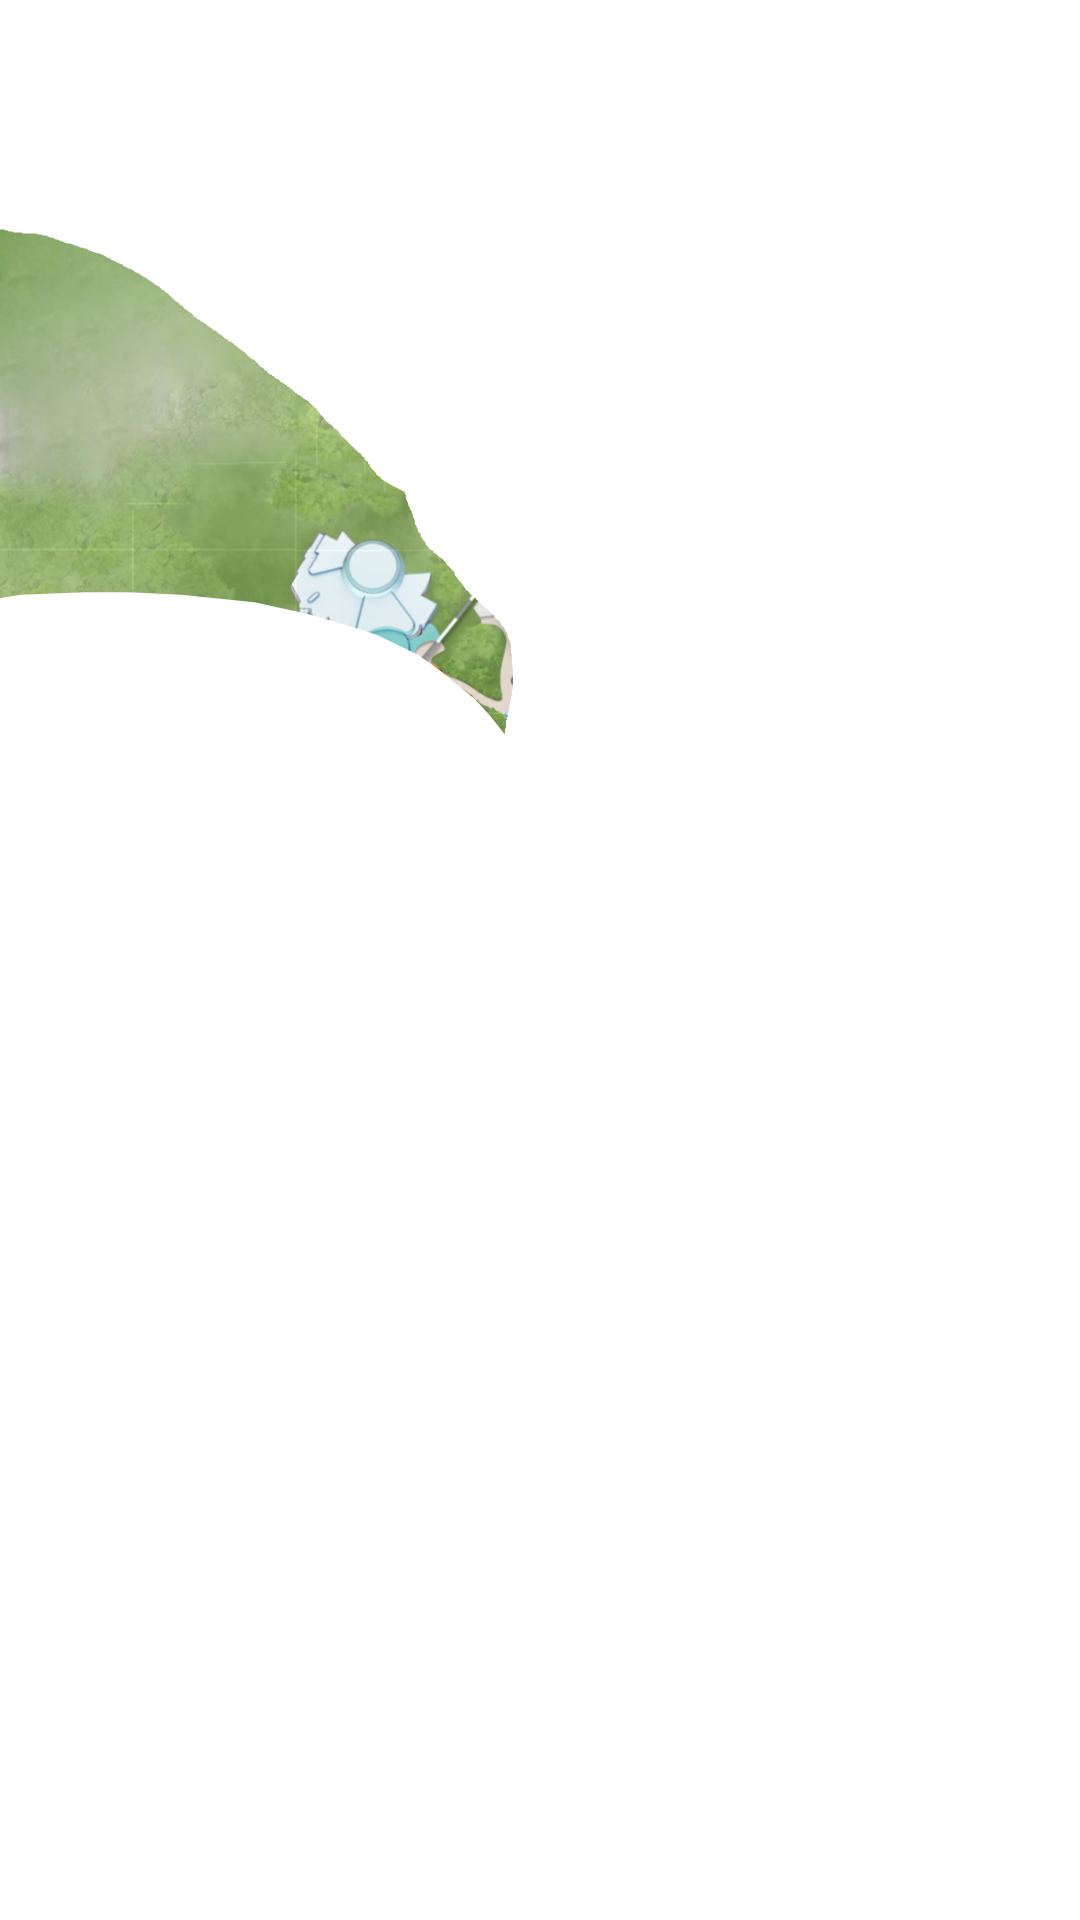
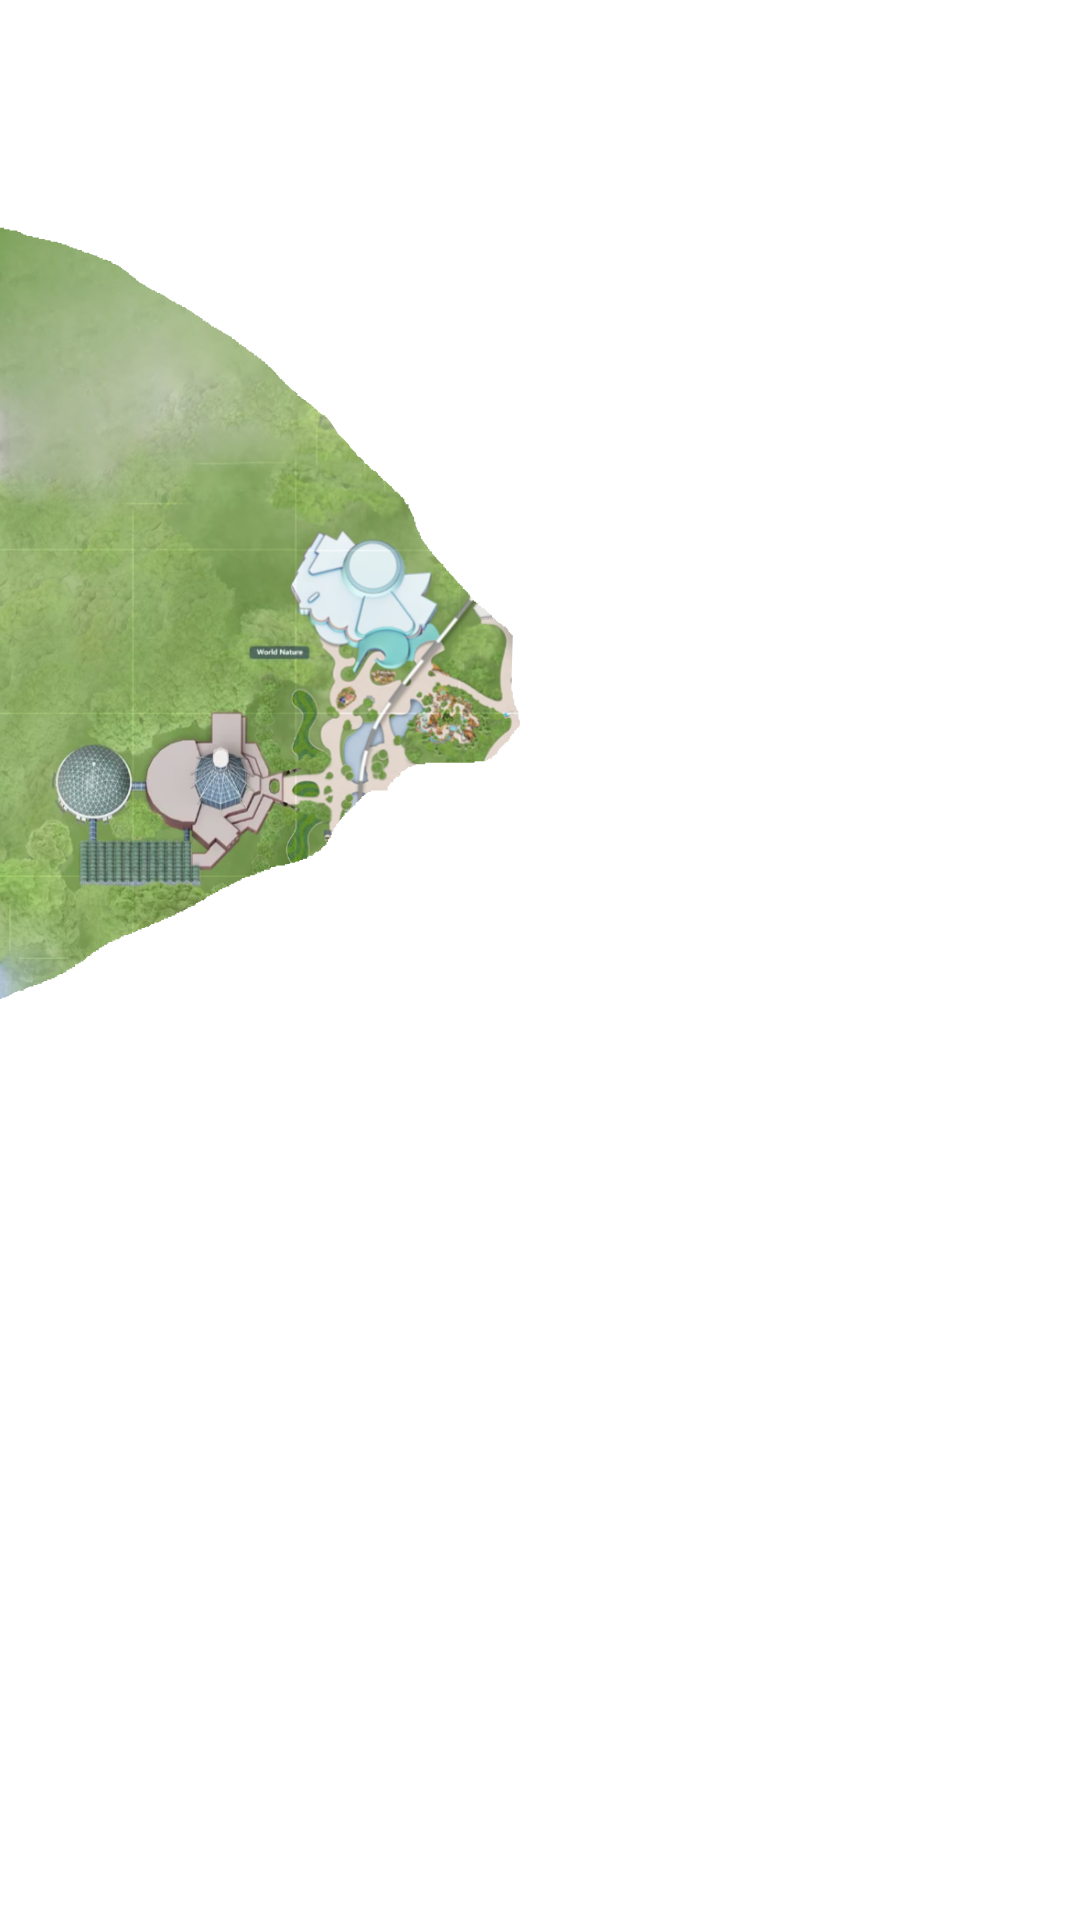
missing maps and name updates

Changed region(s): [[0.0, 0.2812, 0.4889, 0.5312], [0.1222, 0.125, 0.1528, 0.1562]]

diff --git a/mapp/src/images/Images.jsx b/mapp/src/images/Images.jsx
@@ -42,12 +42,12 @@ const IMAGES = {
   animalKingdomLines: new URL("./maps/animalKingdom/ak-lines.png", import.meta.url).href,
   africa: new URL("./maps/animalKingdom/africa.png", import.meta.url).href,
   asia: new URL("./maps/animalKingdom/asia.png", import.meta.url).href,
-  dinoland: new URL("./maps/animalKingdom/dinoland.png", import.meta.url).href,
+  dinoLandUSA: new URL("./maps/animalKingdom/dinoland.png", import.meta.url).href,
   pandora: new URL("./maps/animalKingdom/pandora.png", import.meta.url).href,
   discoveryIsland: new URL("./maps/animalKingdom/dsc-island.png", import.meta.url).href,
 
-  epcotMap: new URL("./maps/epcot-map.png", import.meta.url).href,
-  epcotLines: new URL("./maps/epcot-lines.png", import.meta.url).href,
+  epcotMap: new URL("./maps/epcot/epcot-map.png", import.meta.url).href,
+  epcotLines: new URL("./maps/epcot/epcot-lines.png", import.meta.url).href,
   worldShowcase: new URL("./maps/epcot/world-showcase.png", import.meta.url).href,
   worldCelebration: new URL("./maps/epcot/world-celebration.png", import.meta.url).href,
   worldDiscovery: new URL("./maps/epcot/world-discovery.png", import.meta.url).href,
@@ -56,26 +56,28 @@ const IMAGES = {
   hollywoodStudiosMap: new URL("./maps/hollywoodStudios/hs-map.png", import.meta.url).href,
   hollywoodStudiosLines: new URL("./maps/hollywoodStudios/hs-lines.png", import.meta.url).href,
   animationCourtyard: new URL("./maps/hollywoodStudios/animation-courtyard.png", import.meta.url).href,
+  echoLake: new URL("./maps/hollywoodStudios/echo-lake.png", import.meta.url).href,
   galaxysEdge: new URL("./maps/hollywoodStudios/galaxys-edge.png", import.meta.url).href,
   hollywoodBoulevard: new URL("./maps/hollywoodStudios/hollywood-boulevard.png", import.meta.url).href,
   muppetCourtyard: new URL("./maps/hollywoodStudios/muppets.png", import.meta.url).href,
   sunsetBoulevard: new URL("./maps/hollywoodStudios/sunset-blvd.png", import.meta.url).href,
-  toyStoryLand: new URL("./maps/hollywoodStudios/toy-story-land.png", import.meta.url).href,
+  toyStoryLand: new URL("./maps/hollywoodStudios/toystory-land.png", import.meta.url).href,
 
   magicKingdomMap: new URL("./maps/magicKingdom/magic-kingdom-map.png", import.meta.url).href,
   magicKingdomLines: new URL("./maps/magicKingdom/magic-kingdom-lines.png", import.meta.url).href,
   adventureland: new URL("./maps/magicKingdom/adventureland.png", import.meta.url).href,
   fantasyland: new URL("./maps/magicKingdom/fantasyland.png", import.meta.url).href,
   frontierland: new URL("./maps/magicKingdom/frontierland.png", import.meta.url).href,
-  libertySquare: new URL("./maps/magicKingdom/liberty-square.png", import.meta.url).href,
-  mainStreet: new URL("./maps/magicKingdom/main-street.png", import.meta.url).href,
+  libertySquare: new URL("./maps/magicKingdom/libertySqare.png", import.meta.url).href,
+  mainStreetUSA: new URL("./maps/magicKingdom/mainstreet.png", import.meta.url).href,
   tomorrowland: new URL("./maps/magicKingdom/tomorrowland.png", import.meta.url).href,
 
   islandsOfAdventureMap: new URL("./maps/islandsOfAdventure/islands-of-adventure-map.png", import.meta.url).href,
-  islandsOfAdventureLines: new URL("./maps/islandsOfAdventure/islands-of-adventure-lines.png", import.meta.url).href,
+  islandsOfAdventureLines: new URL("./maps/islandsOfAdventure/islands-of-adventure-line.png", import.meta.url).href,
   hogsmede: new URL("./maps/islandsOfAdventure/hogsmede.png", import.meta.url).href,
   jurassicPark: new URL("./maps/islandsOfAdventure/jurassic-park.png", import.meta.url).href,
   lostContinent: new URL("./maps/islandsOfAdventure/lost-continent.png", import.meta.url).href,
+  seussLanding: new URL("./maps/islandsOfAdventure/seuss-landing.png", import.meta.url).href,
   superheroIsland: new URL("./maps/islandsOfAdventure/superhero-island.png", import.meta.url).href,
   toonLagoon: new URL("./maps/islandsOfAdventure/toon-lagoon.png", import.meta.url).href,
 
@@ -87,7 +89,7 @@ const IMAGES = {
   productionCentral: new URL("./maps/universalStudios/production-central.png", import.meta.url).href,
   sanFrancisco: new URL("./maps/universalStudios/san-francisco.png", import.meta.url).href,
   worldExpo: new URL("./maps/universalStudios/world-expo.png", import.meta.url).href,
-  woodyWoodpecker: new URL("./maps/universalStudios/woody-woodpecker.png", import.meta.url).href,
+  woodyWoodpeckersKidzone: new URL("./maps/universalStudios/woody-woodpecker.png", import.meta.url).href,
 };
 
 export default IMAGES;

diff --git a/mapp/src/components/maps/Map.jsx b/mapp/src/components/maps/Map.jsx
@@ -1,21 +1,36 @@
+import PropTypes from 'prop-types';
+
 import IMAGES from "../../images/Images";
 import { PARK_AREAS } from "../../constants";
 
 function Map({ park }) {
+  const areas = PARK_AREAS[park];
 
-  const areas = PARK_AREAS["Epcot"];
-  debugger
+  console.log(areas)
+
+  function toCamelCase(text) {
+    const textWithoutPunctuation = text.replace(/[^\w\s]/g, ''); // Needed for main street but good to have
+    return textWithoutPunctuation.replace(/(?:^\w|[A-Z]|\b\w)/g, function(word, index) {
+      return index === 0 ? word.toLowerCase() : word.toUpperCase();
+    }).replace(/\s+/g, '');
+  }
 
   return (
-    <div className="flex flex-col items-center p-4">
+    <div className="flex flex-col items-center p-12">
+      <img className="z-20" src={IMAGES[`${toCamelCase(park)}Lines`]} />
       {areas.map((area, index) => (
-        <div key={index} className="flex flex-col items-center gap-4">
-          <h2>{area}</h2>
-          <img src={IMAGES[area]} />
+        <div key={index} className="absolute z-10">
+          <img src={IMAGES[toCamelCase(area)]} />
         </div>
       ))}
+      {/* {true && <img className="z-10 absolute" src={IMAGES[`${toCamelCase(park)}Map`]} />} */}
+      <img className="z-0 absolute" src={IMAGES.mapBackground} />
     </div>
   );
 }
 
 export default Map;
+
+Map.propTypes = {
+  park: PropTypes.string.isRequired,
+};
